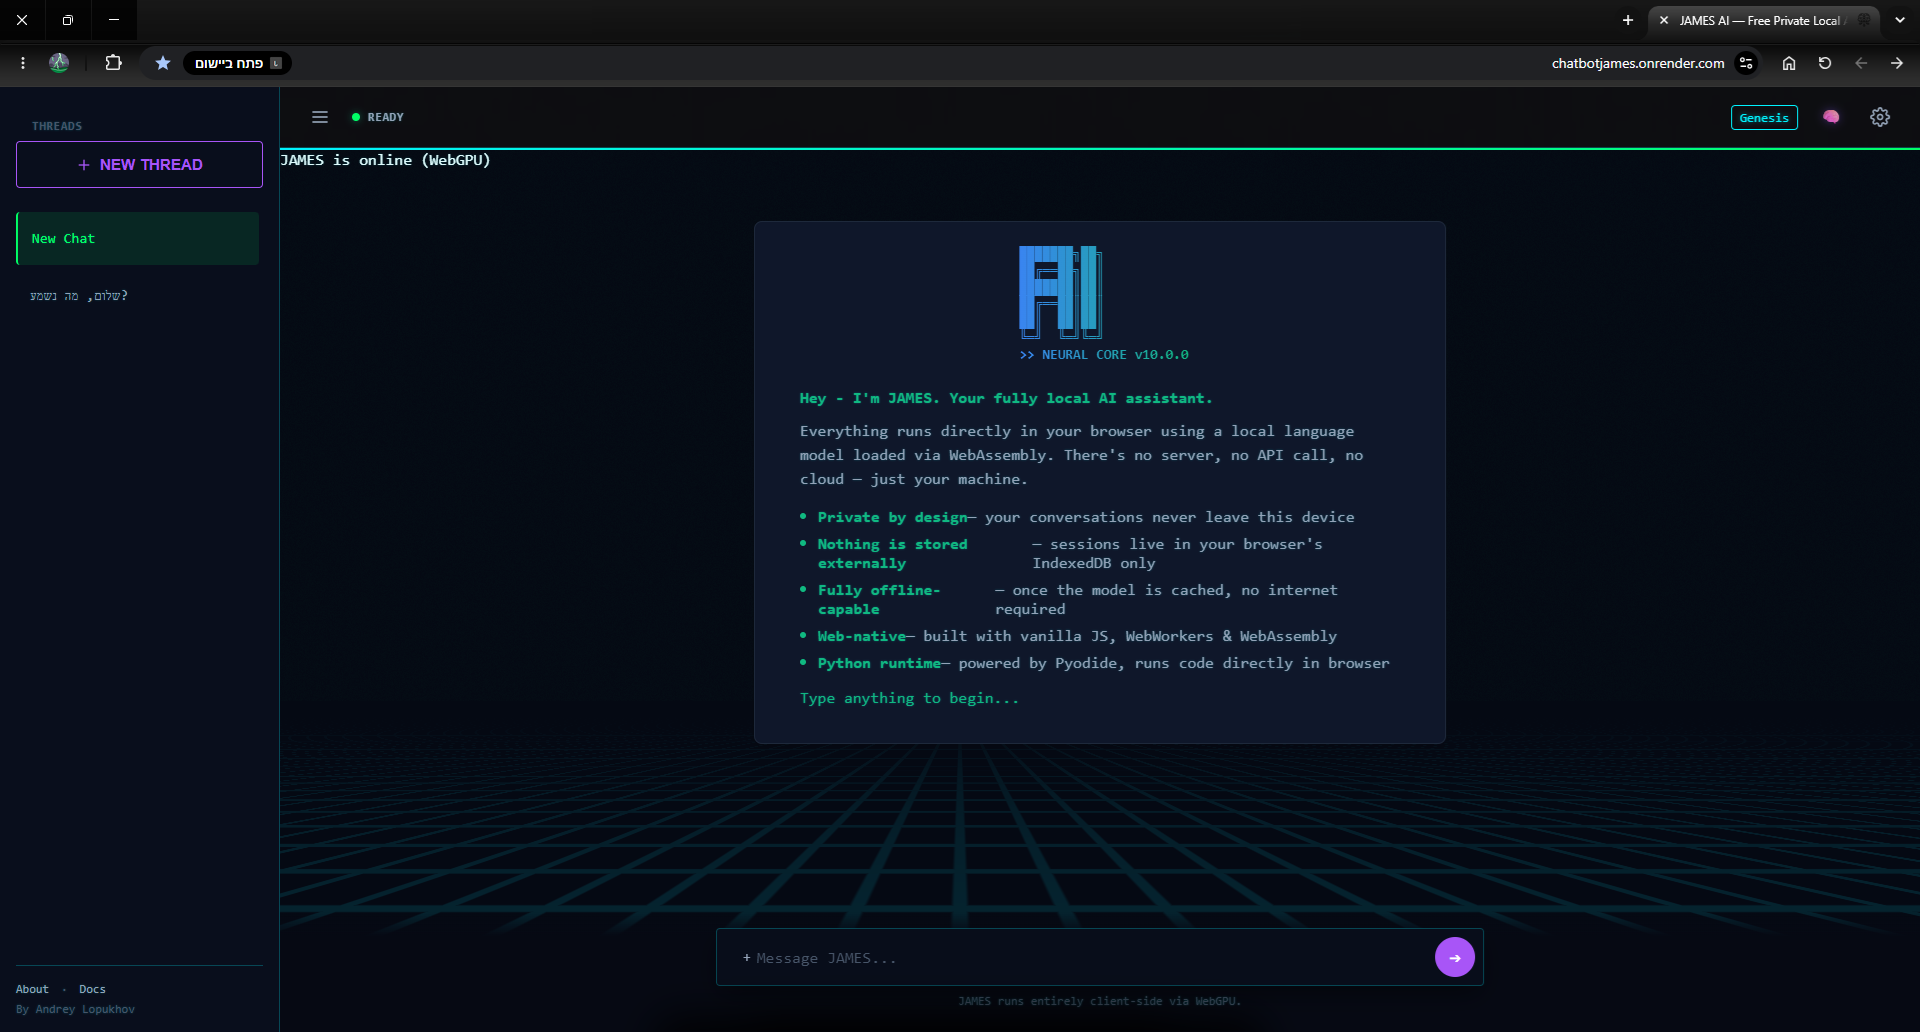
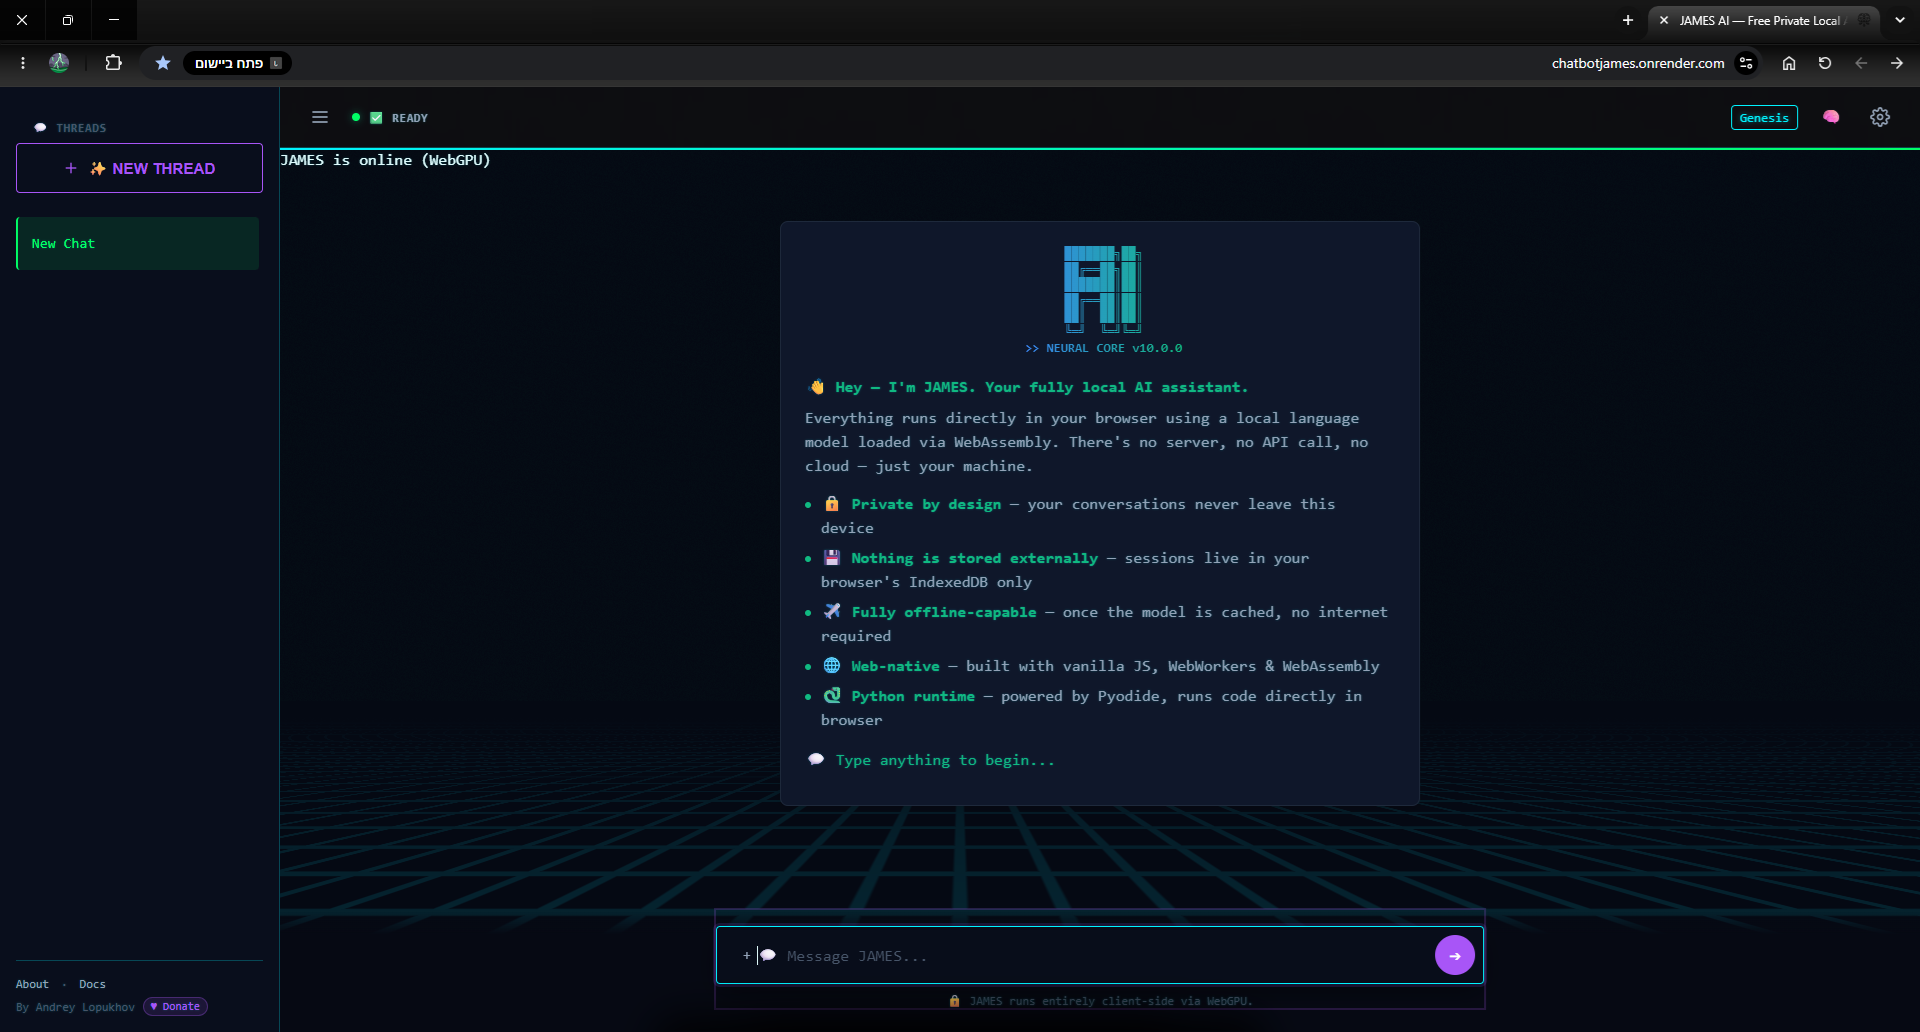
chore: update preview screenshot to reflect latest UI changes

diff --git a/build.js b/build.js
@@ -1,1 +1,1 @@
-export const BUILD_NUMBER = 871;
+export const BUILD_NUMBER = 872;
